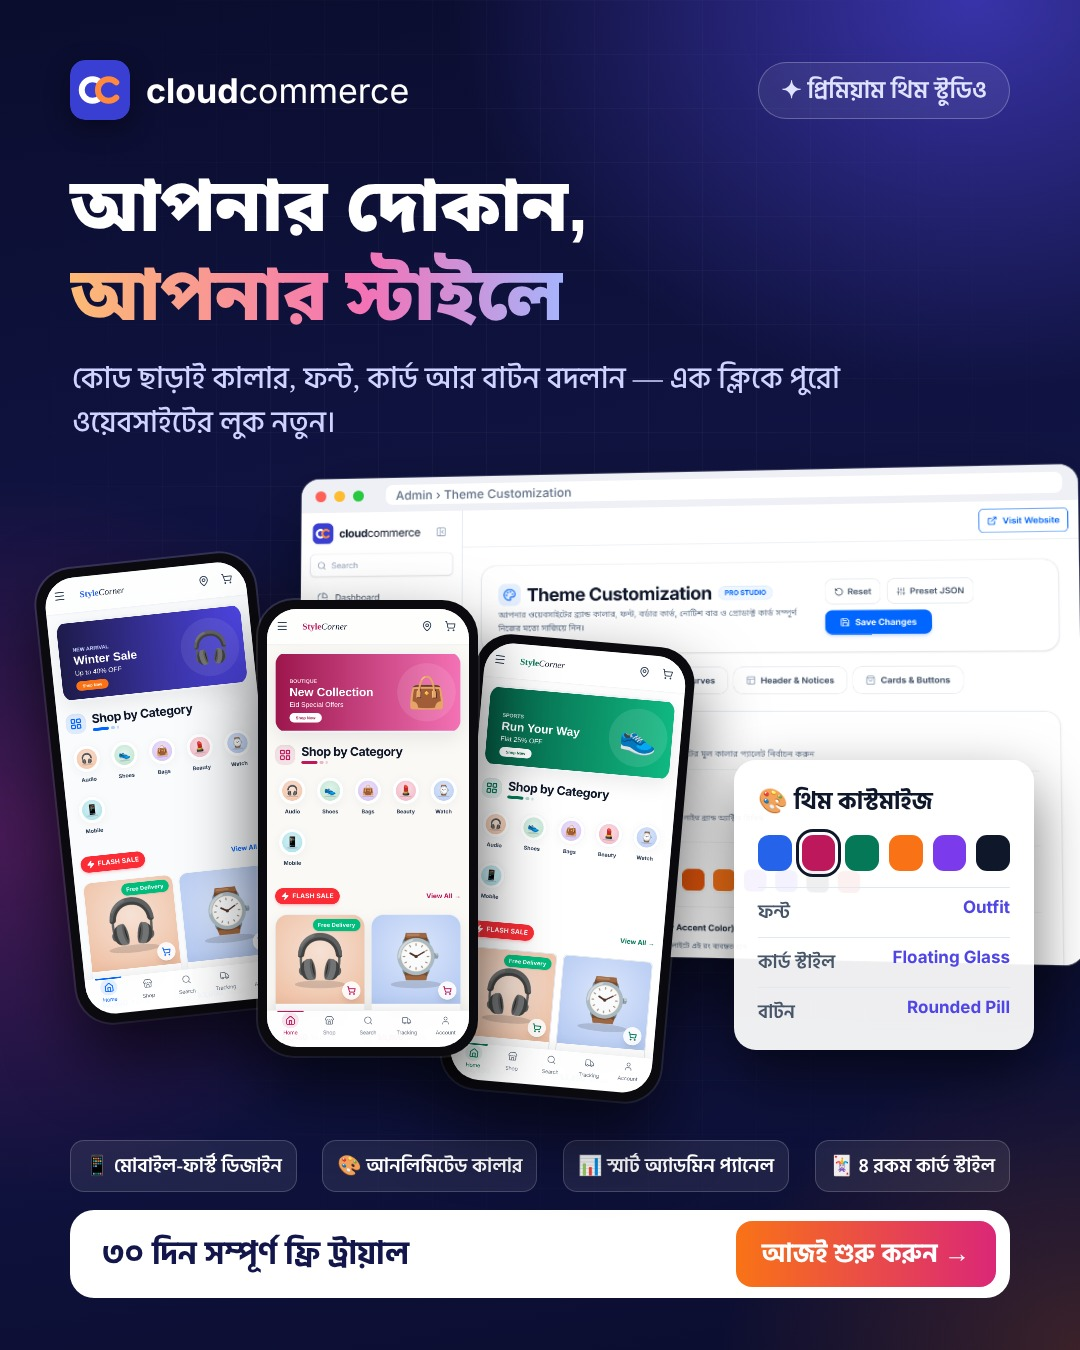
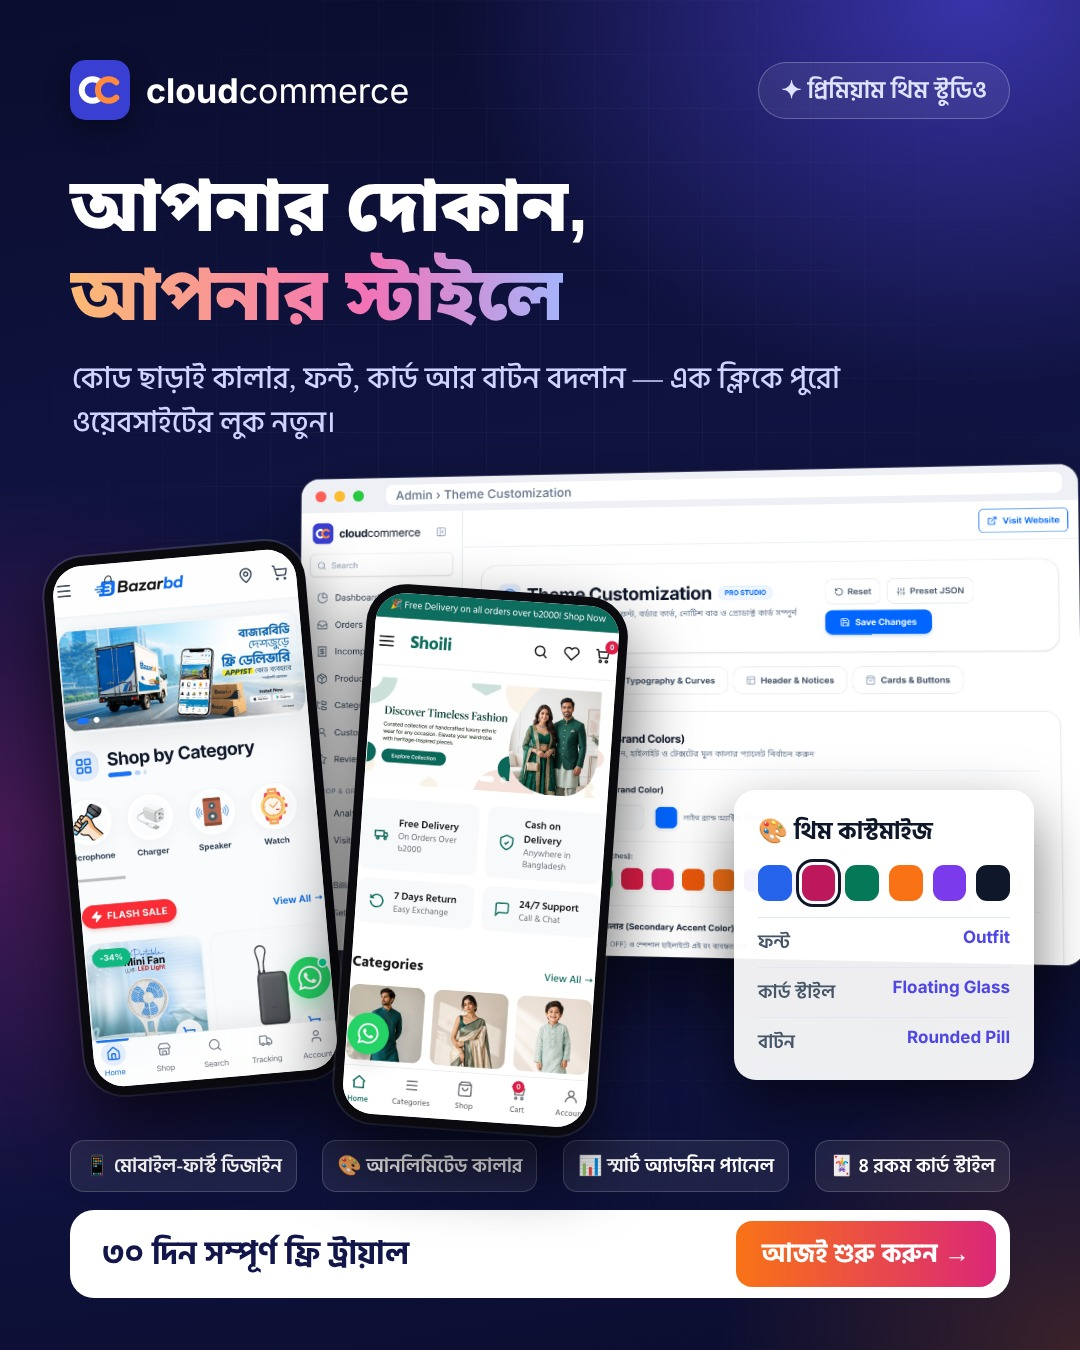
Marketing: themes post uses real store screenshots
Claude-Session: https://claude.ai/code/session_01AbGNuYNch1aQhiEXj6NPKh

Changed region(s): [[0.0306, 0.3733, 0.9778, 0.8711]]

diff --git a/marketing-src/2026-11-21-premium-themes.html b/marketing-src/2026-11-21-premium-themes.html
@@ -23,16 +23,16 @@ h1 span{background:linear-gradient(90deg,#fdba74,#f472b6 60%,#a5b4fc);-webkit-ba
 .bar span{margin-left:14px;flex:1;height:20px;border-radius:7px;background:#fff;font:500 12px Inter;color:#64748b;display:flex;align-items:center;padding-left:10px}
 .win img{width:740px;display:block}
 /* phones */
-.phone{position:absolute;width:220px;height:456px;border-radius:36px;background:#0a0a0f;padding:9px;box-shadow:0 34px 70px #000a,0 0 0 2px #ffffff26}
+.phone{position:absolute;width:262px;height:540px;border-radius:40px;background:#0a0a0f;padding:9px;box-shadow:0 34px 70px #000a,0 0 0 2px #ffffff26}
 .phone .scr{width:100%;height:100%;border-radius:30px;overflow:hidden;background:#fff;position:relative}
-.phone img{width:100%;display:block}
+.phone img{width:100%;height:100%;object-fit:cover;object-position:top;display:block}
 .phone .notch{position:absolute;top:15px;left:50%;transform:translateX(-50%);width:9px;height:9px;background:#0a0a0f;border-radius:50%;z-index:2;display:none}
-.p1{left:56px;top:560px;transform:rotate(-6deg);z-index:3}
-.p2{left:258px;top:600px;z-index:4}
+.p1{left:64px;top:548px;transform:rotate(-5deg);z-index:3}
+.p2{left:350px;top:590px;transform:rotate(4deg);z-index:4}
 .p3{left:458px;top:640px;transform:rotate(5deg);z-index:3}
 .lbl{position:absolute;font:700 18px Inter;color:#fff;padding:6px 14px;border-radius:999px;z-index:6;box-shadow:0 6px 18px #0006;white-space:nowrap}
 /* floating card */
-.float{position:absolute;right:46px;top:760px;width:300px;background:#ffffffee;color:#0f172a;border-radius:22px;padding:22px 24px;z-index:7;box-shadow:0 26px 60px #0008}
+.float{position:absolute;right:46px;top:790px;width:300px;background:#ffffffee;color:#0f172a;border-radius:22px;padding:22px 24px;z-index:7;box-shadow:0 26px 60px #0008}
 .float h4{font:700 24px Hind;display:flex;align-items:center;gap:10px}
 .sw{display:flex;gap:10px;margin-top:14px}
 .sw i{width:36px;height:36px;border-radius:11px;display:block}
@@ -50,9 +50,8 @@ h1 span{background:linear-gradient(90deg,#fdba74,#f472b6 60%,#a5b4fc);-webkit-ba
 
 <div class="win"><div class="bar"><i style="background:#ff5f57"></i><i style="background:#febc2e"></i><i style="background:#28c840"></i><span>Admin › Theme Customization</span></div><img src="ad-cust.png"></div>
 
-<div class="phone p1"><div class="notch"></div><div class="scr"><img src="st-a.png"></div></div>
-<div class="phone p2"><div class="notch"></div><div class="scr"><img src="st-b.png"></div></div>
-<div class="phone p3"><div class="notch"></div><div class="scr"><img src="st-c.png"></div></div>
+<div class="phone p1"><div class="notch"></div><div class="scr"><img src="u1.jpg"></div></div>
+<div class="phone p2"><div class="notch"></div><div class="scr"><img src="u2.jpg"></div></div>
 
 <div class="float"><h4>🎨 থিম কাস্টমাইজ</h4>
  <div class="sw"><i style="background:#2563eb"></i><i class="on" style="background:#be185d"></i><i style="background:#047857"></i><i style="background:#f97316"></i><i style="background:#7c3aed"></i><i style="background:#0f172a"></i></div>
